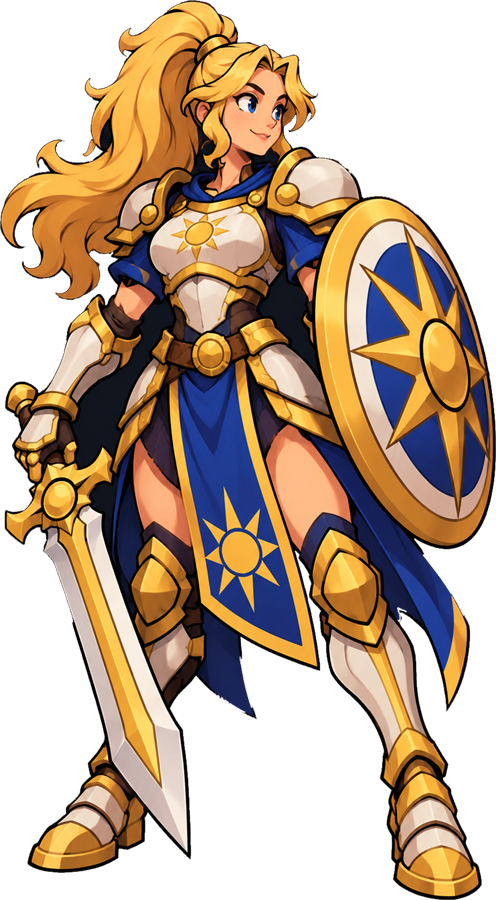
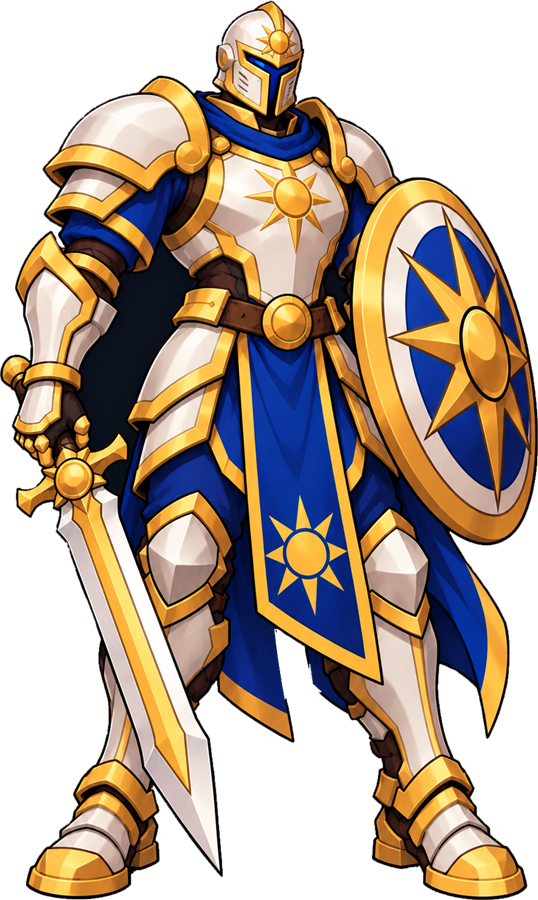
0.120.0: the Knight's own look is a man in sun armour; his skins are the Sunwarden and the Female Knight (the Moonlit Regent renamed: RENAMED_SKINS keeps it for whoever had it); the Drunkard's female skin recut (DECISIONS #408)
Claude-Session: https://claude.ai/code/session_01E54Z3o68QXgDzsSnyQnSAE

diff --git a/packages/pvp/src/cosmetics.test.ts b/packages/pvp/src/cosmetics.test.ts
@@ -4,18 +4,18 @@ import { cleanCosmetics, mergeCosmetics, wornSkin } from './cosmetics';
 describe('cosmetics (DECISIONS #406)', () => {
   it('keeps only known skins, known Riftwalkers, and a skin on its own class', () => {
     const c = cleanCosmetics({
-      owned: ['knight-moonlit-regent', 'knight-moonlit-regent', 'made-up', 3],
+      owned: ['knight-sunwarden', 'knight-sunwarden', 'made-up', 3],
       worn: {
-        knight: { skin: 'knight-moonlit-regent', at: 5 },
-        hunter: { skin: 'knight-moonlit-regent', at: 5 },
+        knight: { skin: 'knight-sunwarden', at: 5 },
+        hunter: { skin: 'knight-sunwarden', at: 5 },
         nobody: { skin: null, at: 1 },
         monk: { skin: null, at: 2 },
         trickster: { skin: 'trickster-gender-male', at: 'soon' },
       },
     });
-    expect(c.owned).toEqual(['knight-moonlit-regent']);
+    expect(c.owned).toEqual(['knight-sunwarden']);
     expect(c.worn).toEqual({
-      knight: { skin: 'knight-moonlit-regent', at: 5 },
+      knight: { skin: 'knight-sunwarden', at: 5 },
       monk: { skin: null, at: 2 },
     });
     expect(cleanCosmetics('nonsense')).toEqual({ owned: [], worn: {} });
@@ -23,32 +23,43 @@ describe('cosmetics (DECISIONS #406)', () => {
 
   it('merges: owning grows, the newest choice wins, an unowned skin is never worn', () => {
     const phone = cleanCosmetics({
-      owned: ['knight-moonlit-regent'],
-      worn: { knight: { skin: 'knight-moonlit-regent', at: 10 } },
+      owned: ['knight-sunwarden'],
+      worn: { knight: { skin: 'knight-sunwarden', at: 10 } },
     });
     const laptop = cleanCosmetics({
-      owned: ['knight-gender-male', 'hunter-tempest-prowler'],
-      worn: { knight: { skin: 'knight-gender-male', at: 20 }, hunter: { skin: null, at: 1 } },
+      owned: ['knight-gender-female', 'hunter-tempest-prowler'],
+      worn: { knight: { skin: 'knight-gender-female', at: 20 }, hunter: { skin: null, at: 1 } },
     });
     const both = mergeCosmetics(phone, laptop);
     expect(both.owned).toEqual([
-      'knight-moonlit-regent',
-      'knight-gender-male',
+      'knight-sunwarden',
+      'knight-gender-female',
       'hunter-tempest-prowler',
     ]);
-    expect(wornSkin(both, 'knight')).toBe('knight-gender-male');
+    expect(wornSkin(both, 'knight')).toBe('knight-gender-female');
     expect(wornSkin(both, 'hunter')).toBeUndefined();
     // a choice of a skin that neither copy owns is dropped
     const odd = mergeCosmetics(
-      { owned: [], worn: { knight: { skin: 'knight-moonlit-regent', at: 9 } } },
+      { owned: [], worn: { knight: { skin: 'knight-sunwarden', at: 9 } } },
       phone,
     );
-    expect(odd.worn['knight']).toEqual({ skin: 'knight-moonlit-regent', at: 10 });
+    expect(odd.worn['knight']).toEqual({ skin: 'knight-sunwarden', at: 10 });
     expect(
       mergeCosmetics(
-        { owned: [], worn: { knight: { skin: 'knight-moonlit-regent', at: 9 } } },
+        { owned: [], worn: { knight: { skin: 'knight-sunwarden', at: 9 } } },
         { owned: [], worn: {} },
       ).worn,
     ).toEqual({});
+  });
+});
+
+describe('a renamed skin is kept under its new id (DECISIONS #408)', () => {
+  it('the Moonlit Regent is the Female Knight', () => {
+    const c = cleanCosmetics({
+      owned: ['knight-moonlit-regent'],
+      worn: { knight: { skin: 'knight-moonlit-regent', at: 3 } },
+    });
+    expect(c.owned).toEqual(['knight-gender-female']);
+    expect(wornSkin(c, 'knight')).toBe('knight-gender-female');
   });
 });

diff --git a/packages/pvp/src/cosmetics.ts b/packages/pvp/src/cosmetics.ts
@@ -2,7 +2,7 @@
 // server: cleaning what arrives from outside, and merging two copies (another device's, the server's). Owning only grows (a skin got
 // on one device is owned on every device); for each Riftwalker the newest choice of look wins.
 
-import { RIFTWALKERS, skinDef } from '@sr/content/v2';
+import { RIFTWALKERS, currentSkinId, skinDef } from '@sr/content/v2';
 
 /** The look a Riftwalker wears: a skin id, or null for its own look; `at` is when it was chosen (ms), so the newest choice wins. */
 export interface Worn {
@@ -25,16 +25,21 @@ const isHero = (id: string): boolean => Object.hasOwn(RIFTWALKERS, id);
 export function cleanCosmetics(raw: unknown): Cosmetics {
   if (typeof raw !== 'object' || raw === null) return { owned: [], worn: {} };
   const r = raw as Record<string, unknown>;
+  // (a renamed skin's old id is read as its new one, so nobody loses a skin to a rename: DECISIONS #408)
+  const now = (id: unknown): unknown => (typeof id === 'string' ? currentSkinId(id) : id);
   const owned: string[] = [];
   if (Array.isArray(r['owned']))
-    for (const id of r['owned'])
+    for (const raw of r['owned']) {
+      const id = now(raw);
       if (skinDef(id) && !owned.includes(id as string)) owned.push(id as string);
+    }
   const worn: Record<string, Worn> = {};
   const w = r['worn'];
   if (typeof w === 'object' && w !== null && !Array.isArray(w))
     for (const [hero, v] of Object.entries(w as Record<string, unknown>)) {
       if (!isHero(hero) || typeof v !== 'object' || v === null) continue;
-      const { skin, at } = v as { skin?: unknown; at?: unknown };
+      const { skin: was, at } = v as { skin?: unknown; at?: unknown };
+      const skin = now(was);
       if (typeof at !== 'number' || !Number.isFinite(at) || at < 0) continue;
       if (skin === null) worn[hero] = { skin: null, at };
       else if (skinDef(skin)?.hero === hero) worn[hero] = { skin: skin as string, at };

diff --git a/packages/content/src/v2/cosmetics.ts b/packages/content/src/v2/cosmetics.ts
@@ -16,8 +16,9 @@ export interface SkinDef {
 const skin = (hero: HeroId, name: string): SkinDef => ({ id: `${hero}-${name}`, hero, price: 0 });
 
 export const SKINS: readonly SkinDef[] = [
-  skin('knight', 'moonlit-regent'),
-  skin('knight', 'gender-male'),
+  // (the Knight's own look is a man in sun armour now; the woman who was the Moonlit Regent is the Female Knight: #408)
+  skin('knight', 'sunwarden'),
+  skin('knight', 'gender-female'),
   skin('engineer', 'aether-forgemaster'),
   skin('engineer', 'gender-female'),
   skin('hunter', 'tempest-prowler'),
@@ -39,6 +40,14 @@ export const SKINS: readonly SkinDef[] = [
 ];
 
 const BY_ID = new Map(SKINS.map((s) => [s.id, s]));
+
+/** A skin that was renamed: whoever had it has it under its new id (DECISIONS #408). */
+export const RENAMED_SKINS: Readonly<Record<string, string>> = {
+  'knight-moonlit-regent': 'knight-gender-female',
+};
+
+/** A skin id as it is now (an old id of a renamed skin gives the new one). */
+export const currentSkinId = (id: string): string => RENAMED_SKINS[id] ?? id;
 
 /** The skin with this id, if the Store has one. */
 export const skinDef = (id: unknown): SkinDef | undefined =>

diff --git a/packages/content/src/v2/index.ts b/packages/content/src/v2/index.ts
@@ -85,7 +85,7 @@ export const RIFTWALKERS: Record<HeroId, Riftwalker> = {
     hero: { id: 'knight', name: 'Knight', maxHp: 80, mana: 3, handSize: 5 },
     starter: [...rep('strike', 5), ...rep('defend', 4), 'sundering-blow'],
     blurb:
-      'A knight of the Gilded Order. No companions: Might, Barrier and a deck she burns down to a point.',
+      'A knight of the Gilded Order. No companions: Might, Barrier and a deck that burns down to a point.',
     mechanics: ['Barrier', 'Might', 'Exposed', 'Consume', 'Self-damage'],
     buildPaths: [
       'Bulwark: hit with your Barrier',
@@ -640,7 +640,7 @@ export const maxCopiesOf = (rarity: string | undefined): number =>
 
 export { BOONS, HEARTS, POTIONS };
 export { SHELVED_LEGENDARIES, lendLegendaries } from './shelved';
-export { SKINS, skinDef, type SkinDef } from './cosmetics';
+export { SKINS, currentSkinId, skinDef, type SkinDef } from './cosmetics';
 
 /**
  * The Riftwalker ids before they were named for their class (DECISIONS #190, 2026-10-25). A run save, a Vault deck, a remembered

diff --git a/apps/web/src/app/patchNotes.ts b/apps/web/src/app/patchNotes.ts
@@ -42,6 +42,10 @@ export const PATCH_NOTES: PatchNote[] = [
         kind: 'changed',
         text: 'In the Arena, when both players want the same order, a reel of your two names decides who goes first.',
       },
+      {
+        kind: 'new',
+        text: 'A new Knight: a man in sun armour. His looks in the Store are the Sunwarden and the Female Knight (if you had the Moonlit Regent, you have the Female Knight).',
+      },
     ],
   },
   {

diff --git a/docs/DECISIONS.md b/docs/DECISIONS.md
@@ -747,3 +747,4 @@ consistent with the docs" rule and can be revisited.
 405. **A summon card can be played with no room for all of its companions (Robert, 2026-10-28: "make sure players can play summon cards even if all the summons can't make it on the field, just prompt them about not every minion can be played or they have to sacrifice a different minion") →** #383 made a card whose summons did not all fit playable only by scrapping companions to make room. Now it can also be played as it is: what fits is summoned in the card's order, the rest is not (the summon op already skipped a companion with no slot). `legalActions` lists the scrap choices first and the as-is play last; `summonsThatFit(db, side, card)` says how many would come. The fight screen's no-room prompt says so ("Or play it anyway: only 2 of its 3 companions come" / "none of its companions come") beside the choice of companion to scrap, with Play anyway, Scrap them (when every companion must go) and Cancel. RULES_VERSION 32.
 406. **Skins on a player's account, got free in the Store and chosen on a Cosmetics page (Robert, 2026-10-28: "Build out the ability to add a skin to a players account and a page to select which cosmetics they want active. Just make the purchase of the skins free for now.") →** the Store's catalog is data (`SKINS` in packages/content/src/v2/cosmetics.ts: id, class, price 0). A player's cosmetics (the skins they own and the look each Riftwalker wears, with when it was chosen) live on their Vault (`cosmetics` action: one JSON row in the Vault's Durable Object, so a Vault code or a signed-in account), and a copy in the browser (works offline, draws at once). Copies merge with `mergeCosmetics` (packages/pvp): owning only grows, and for each Riftwalker the newest choice wins; `cleanCosmetics` keeps only catalog skins worn by their own class. The Store has Get (free) and Wear on each look; `#/cosmetics` (Cosmetics) lists each Riftwalker's own look and the skins owned for it, to choose one. The look you wear is your hero on the home screen, in the character picker and on your side of a fight; an opponent of the same class keeps their own look (an opponent's skin over the network is for later). Because every skin is free, the server accepts any catalog skin a device says it owns; a priced skin will need the server to grant it after a purchase, which is Robert's to decide (monetisation). Review fixes: the skin your hero wears is fixed when a fight starts and only if its figure is already in (a figure that changed mid-fight was drawn at the wrong size); getting or wearing a skin starts loading it; watching a match or replay draws everyone in their own look; a guest with no Vault code and no skins does not sync (no Vault is made just for opening the page). Open: a skin removed from the catalog is dropped from Vaults on their next sync (keep unknown ids before skins are paid for); and #405 lets a summon card count as a played card (its suit, on-play Auras, Consume) with no companion lost, worth costing for the summon classes.
 407. **Every chance is shown on the slider reel, with tiles that are the odds; no more coin (Robert, 2026-10-28: "Let's update the coin toss to use the slider slot machine and dynamically load the options on the slot machine to fit the odds of whatever is being rolled for that event. I've seen some 60/40 events use coin toss and that's not good, so let's just get rid of coin toss and use slider slot machine every time. Even in arena coin toss") →** an event's chance (`eventFlips`) is shown by `ChanceReel` (it replaced ChanceCoin, a coin for an even chance and a wheel otherwise) on the Brass Reel. The reel takes a `cycle`: `oddsCycle(pct)` is a run of 20 tiles (100 when the chance is not a multiple of 5) with exactly the chance's share of "Your way" tiles, spread evenly, so any ten tiles of a 60% reel show 6 wins; the strip repeats it, turned so a tile of the result (already decided by the rules) stops under the pointer. The odds are also written under it ("A 60% chance: 12 of every 20 tiles go your way"). The Arena's who-goes-first coin (when both players want the same) is the same reel, a 50/50 run of the two players' names, then the winner's portrait. Presentation only: no rule or roll changed. The Trials practice page spins a 60% chance.
+408. **The Knight's own look is a man in sun armour; his skins are Sunwarden and Female Knight (Robert, 2026-10-28: "please get the updated base knight model and the skins for it") →** `assets-src/heroes/knight.png` is now a helmed man in white-and-gold sun plate; the skins are `knight-sunwarden` (the same, crowned) and `knight-gender-female` (the blonde woman in moon armour who was the Moonlit Regent). The catalog drops `knight-moonlit-regent` and `knight-gender-male` (the man is the own look now). `RENAMED_SKINS` maps an old skin id to its new one and `cleanCosmetics` reads it so, so whoever got the Moonlit Regent owns (and wears) the Female Knight. The Knight's blurb no longer says "she" ("a deck that burns down to a point"); the hidden persona name Valeria is Robert's to change or keep.

diff --git a/CHANGELOG.md b/CHANGELOG.md
@@ -5,6 +5,7 @@ Player-visible changes, newest first. Format loosely follows [Keep a Changelog](
 ## [Unreleased]
 
 ### Added (newest)
+- **A new Knight:** the Knight is a man in sun armour now; the Store's looks for him are the Sunwarden and the Female Knight (if you had the Moonlit Regent, you have the Female Knight).
 - **No more coin:** every chance in an event, and who goes first in the Arena, is shown on the slider reel. Its tiles are the real odds (a 60% chance is 12 of every 20 tiles your way), and the odds are written under it.
 - **Cosmetics:** get any Riftwalker look in the Store (free for now) and choose which one each Riftwalker wears on the new Cosmetics page. Your look is your hero on the home screen and in your fights, and it follows you to any device with your Vault or account.
 - **Summon cards with no room:** a card whose companions do not all fit can be played anyway (what fits comes); the prompt says how many will come, beside the choice of a companion to scrap.
